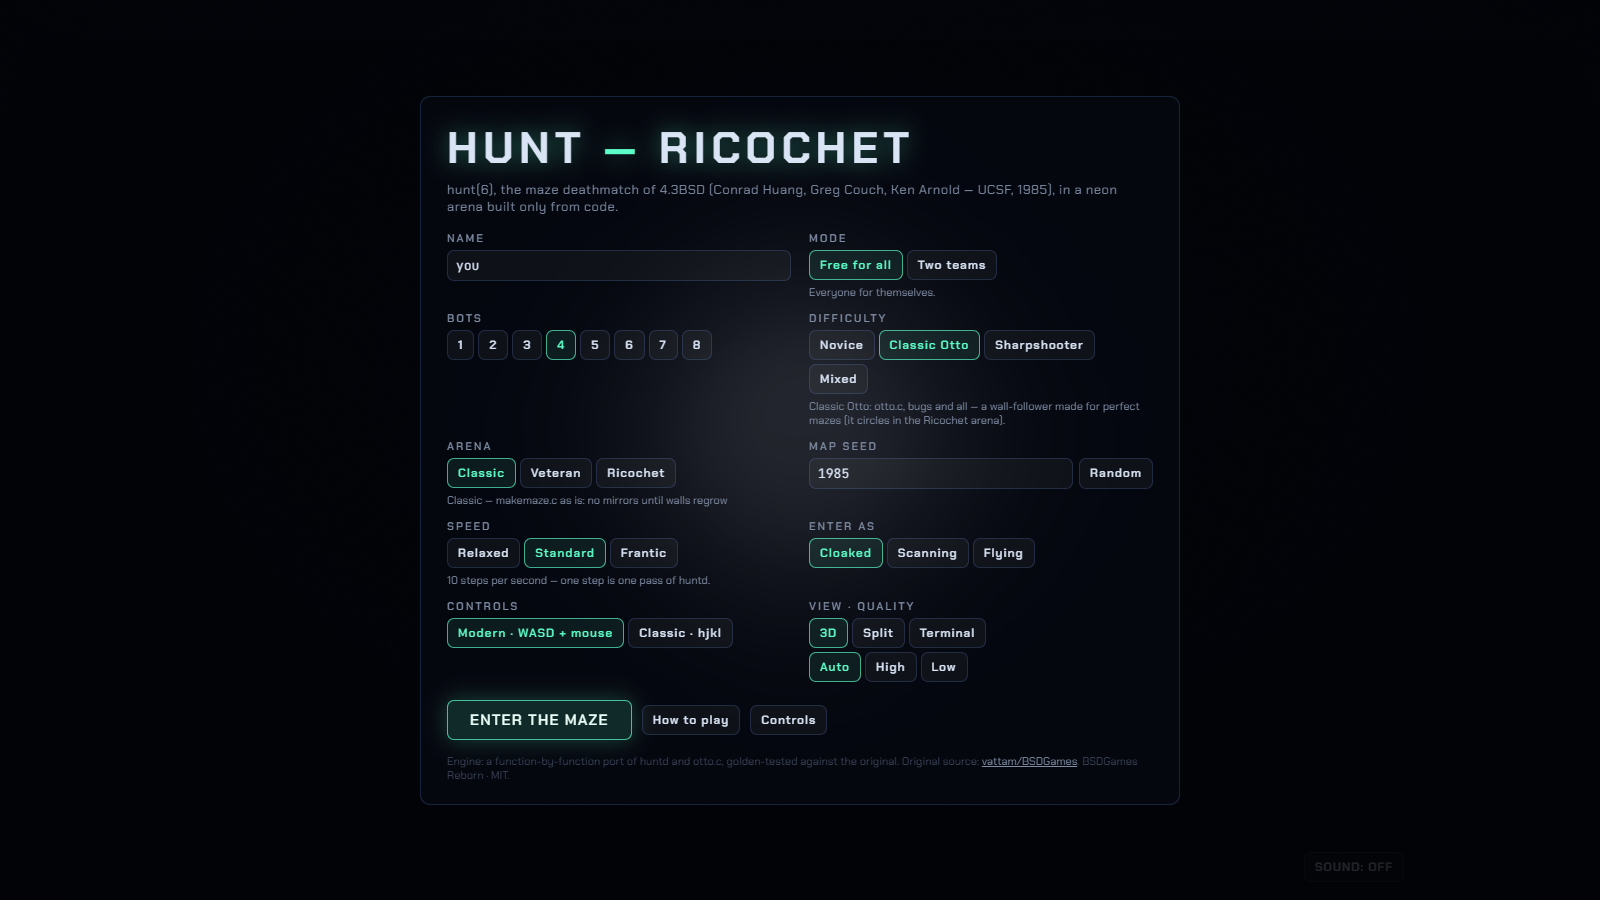
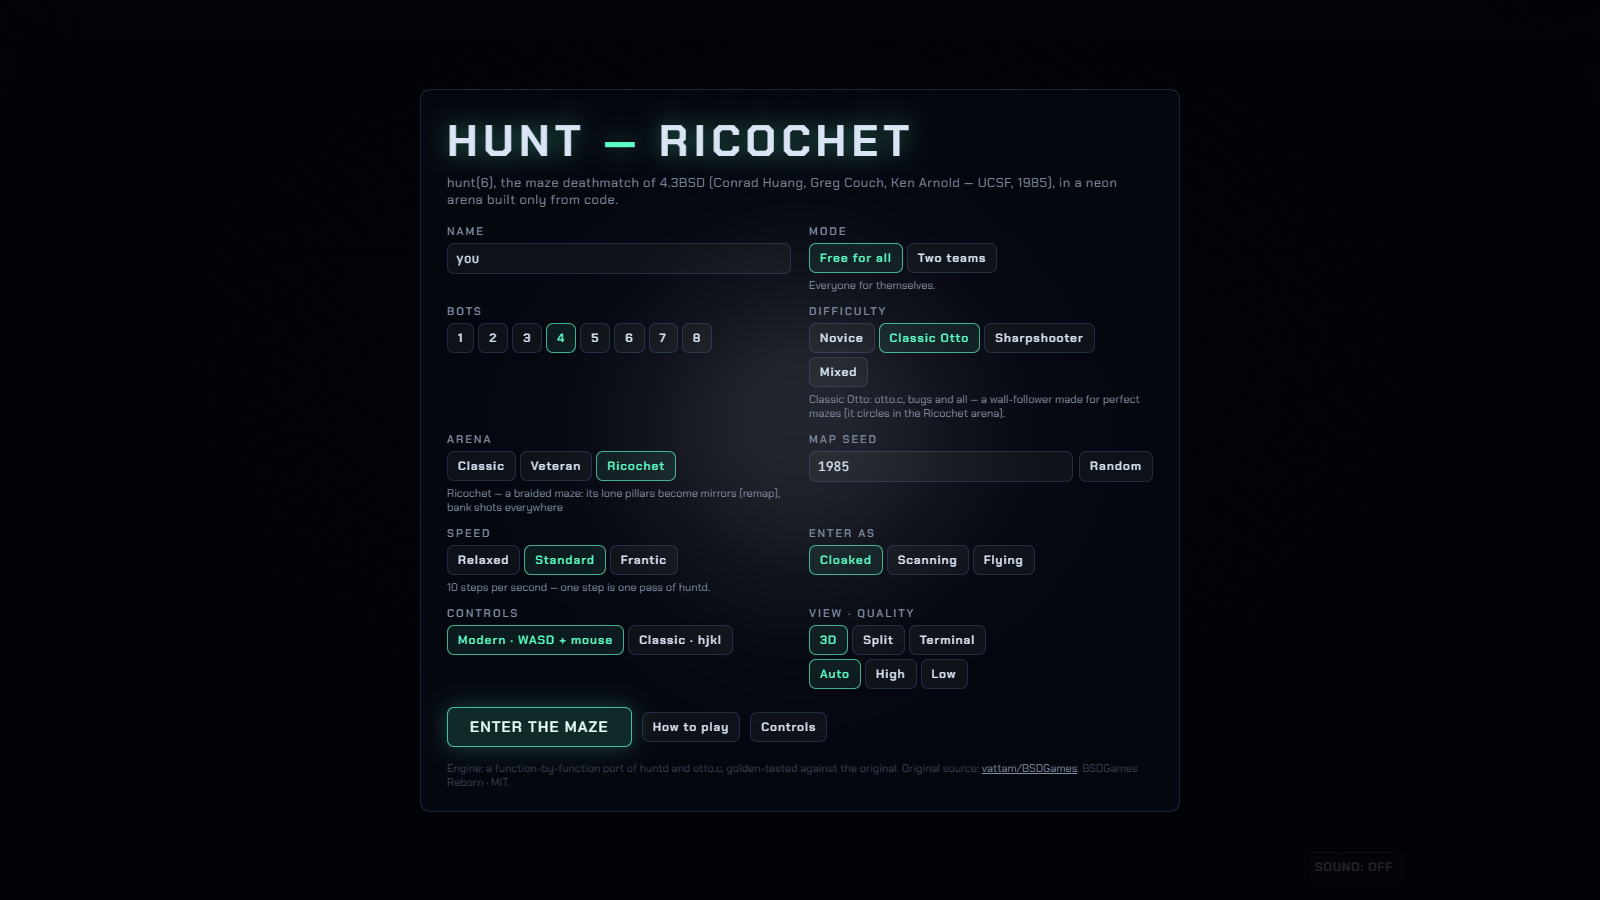
port(hunt): make Ricochet the default arena
Owner's decision after comparing the arenas: the flipping mirror is
hunt's signature and this port's identity, and the original arena starts
with no mirrors at all. Classic (makemaze.c exactly) stays one click away,
or ?arena=classic.

- src/main.js: DEFAULTS.arena = 'ricochet'; settings saved before this
  change drop their remembered arena once (settings v2), other choices
  are kept. The engine's own default stays Classic, so golden traces and
  the Override baseline are unaffected.
- ADR-006 amended (status, decision, consequences: Classic Otto, the
  default opponent, circles in Ricochet); README, diff-log, notes, ADR
  index and progress row updated; setup screenshot re-shot.
- 90/90 node tests, UI smoke 15/15.

diff --git a/bsdgames/hunt/ports/fancy-web/src/main.js b/bsdgames/hunt/ports/fancy-web/src/main.js
@@ -25,14 +25,20 @@ const W = K.WIDTH;
 
 // ------------------------------------------------------------- settings
 const DEFAULTS = {
-  name: 'you', mode: 'ffa', bots: '4', difficulty: 'otto', arena: 'classic', seed: 1985,
+  name: 'you', mode: 'ffa', bots: '4', difficulty: 'otto', arena: 'ricochet', seed: 1985,
   speed: 'standard', enter: 'c', scheme: 'modern', view: 'modern', quality: 'auto', camera: 'overview',
 };
 let settings = { ...DEFAULTS };
-try { Object.assign(settings, JSON.parse(localStorage.getItem('hunt.settings') || '{}')); } catch { /* defaults */ }
+// v2: Ricochet became the default arena; an arena remembered from before that is dropped once
+const SETTINGS_V = 2;
+try {
+  const saved = JSON.parse(localStorage.getItem('hunt.settings') || '{}');
+  if (saved.v !== SETTINGS_V) delete saved.arena;
+  Object.assign(settings, saved);
+} catch { /* defaults */ }
 for (const k of Object.keys(DEFAULTS)) if (params.has(k)) settings[k] = params.get(k);
 // quality=lite is a URL-only test switch (the menu offers auto/low/high), so it is never remembered
-const save = () => { try { localStorage.setItem('hunt.settings', JSON.stringify({ ...settings, quality: settings.quality === 'lite' ? 'auto' : settings.quality })); } catch { /* ignore */ } };
+const save = () => { try { localStorage.setItem('hunt.settings', JSON.stringify({ ...settings, v: SETTINGS_V, quality: settings.quality === 'lite' ? 'auto' : settings.quality })); } catch { /* ignore */ } };
 
 const NOTES = {
   mode: { ffa: 'Everyone for themselves.', teams: 'Two teams (hunt teams are digits: 1 and 2). Friendly fire hurts — and costs you a kill.' },

diff --git a/docs/progress.md b/docs/progress.md
@@ -169,7 +169,7 @@ for the naming rules and reserved slugs.
 | rain | fancy-web | 🟢 | Agun (Claude) | — | **Released 2026-09-24.** *Rain on Still Water* — the 1980 screensaver as a night pond, **zero raster assets** (port ADR-002, `npm run check:raster`; sound synthesised too). Byte-faithful engine: glibc `random()` reimplemented, the `rain.c` loop on a persistent 80×24 screen, reproducing the three screens captured from the real binary; `-d` parsed like `strtoul`; `-d 0` paced as a 9600-baud line drains. Each ASCII age (`.` `o` `O` ring ring blank) is an impulse into a GPU wave-equation simulation on a conformal log-polar grid (ADR-003/004): rings interfere; crowns, jets, falling streaks tied to engine drops, 0.35 s visual latency shared by both views. Procedural sky (clouds, moon, stars), wooded far bank, lantern bokeh with glitter-column reflections, Fresnel, mist; bloom + filmic grade. Web Audio hiss + per-drop bubble plinks, muted by default. Classic ASCII view and split view (lock-step, verified in the browser). Raw WebGL2, vanilla ES modules, zero build. Degradation ladder High/Low/Lite/Classic (ADR-005): 60 fps on GPU, ≈25 fps CPU-only (SwiftShader), classic view without WebGL. **23/23 node tests + 35/35 Playwright checks.** Docs: README (measured no-GPU numbers) + AGENTS + CLAUDE + diff-log + architecture + test-scenarios + notes + 5 ADRs; 9 screenshots. ✨ Complete pending: listening test of the sound, live URL. |
 | worms | fancy-web | 🟢 | Agun (Claude) | — | **Released 2026-09-24.** *Abyssal Worms*: `worms(6)` as a bioluminescent deep-sea screensaver, **zero raster and audio assets** (port ADR-002, enforced by a test). Faithful engine: the nine boundary tables, ring-buffer bodies, ref-counted cells and glibc `random()` (seed 1 = the unseeded original) reproduce screens captured from a binary built from `worms.c` **cell for cell** (7 configs × 4 captures); GNU getopt + `strtoul`/`atoi` with byte-identical errors (31 CLI cases). Smooth glide between grid steps that equals the grid state at step boundaries (ADR-003); eight species for `O * # $ % 0 @ ~` (translucent segmented bodies, Fresnel rim, gut pulse, photophores); worms light the sea floor (light map) and each other, flaring where ref ≥ 2; luminous fading `-t` trails; breathing plankton "WORM" `-f` field eaten letter by letter; marine snow, caustics, burrows; bloom + ACES. Settings with live `-n -l -d -f -t` and a command line, Classic and Split (same engine state), procedural drone/bubbles/crossing chimes (muted by default), idle-fading UI, fullscreen, reduced motion, Low/High with auto-downgrade. Raw WebGL2 + Canvas 2D + Web Audio, vanilla ES modules, zero build; no-GPU → auto Low, no WebGL → classic view. 60 fps at `-n 20 -l 64 -t -f` (RTX 4060). **33/33 tests.** 9 screenshots. Canonical `spec.md` replay semantics corrected (unseeded glibc = deterministic); port-style catalog added to `port-ideas.md`. ✨ Complete pending: listening test of the sound, live URL. |
 | trek | procedural-web | 🟢 | Agun (Claude) | — | **Released 2026-09-24 (comparison port).** *Deep Space — Procedural*: head-to-head with `trek/fancy-web` — same engine (galaxy/parser/hints byte-identical, SHA-pinned; engine copied and extended only behind default-off Captain's Override flags, proved identical to a frozen fancy-web engine over 120 seeded games), but **zero raster and audio assets** (port ADR-002, enforced by a test). Vendored Three.js r186 + hand-written GLSL, vanilla ES modules, zero build (port ADR-001): per-quadrant volumetric nebula bake (64 stable skies, auto-exposed, procedural planets in half of them), original lofted ships (Vanguard, Talon, Hammer, Trident, Stingray) with runtime-canvas plating, windows and engines, a 5.6-cell ring starbase, shaded stars with corona/limb darkening/lens flare, phasers with heat shimmer, hex-ripple shields, multi-stage explosions, warp tunnel, holographic galaxy chart with click-to-warp; combat choreography follows the original C after two owner review rounds (phasers from six hull banks at once, one per Klingon, as `phaser.c`; torpedo/impulse/warp come about first); procedural Web Audio (muted by default). Dynamic cheat parity + Captain's Override (`override` / `!`: reveal map, infinite energy/torpedoes, invulnerable shields, freeze clock, one-shot kills, instant warp, resupply; OVERRIDE ACTIVE badge, CHEATED log + end screen). High/Low/Lite + 2D fallback (60 fps RTX 4060; CPU-only Lite ≈ 18 fps in combat; no-WebGL 2D). **77/77 node tests + 23/23 Playwright checks** (GPU, CPU, no-WebGL). `docs/comparison.md` with 7 painted/procedural pairs; 11 screenshots. Canonical scenarios: same coverage as fancy-web (11 pass, 5 differ, 9 need commands the shared engine lacks). ✨ Complete pending: live URL, galactic-core sky type. |
-| hunt | fancy-web | 🟢 | Agun (Claude) | — | **Released 2026-09-24.** *Hunt — Ricochet*, the first hunt port, **zero raster and audio assets** (port ADR-002, enforced by a test). `huntd` (execute/shots/expl/draw/driver/answer/makemaze) and `otto.c` ported function by function into a pure, seeded, JSON-serialisable engine that runs unchanged in Node, **matched field by field against the real daemon code** on 7 golden traces (~6,000 steps: a single-file C harness compiles the upstream `.c` files with a virtual terminal per player, since no hunt binary ships in Debian). The C won every disagreement with the canonical docs: 42 discrepancies recorded with `file:line` and proposed fixes (51×23 maze, real weapon table, mirrors that flip after every deflection, one-shot walls that regrow and throw players, ownerless mines, no ammo regen, kills-per-entry score, original authors per the man pages; canonical docs not edited). A fresh hunt arena has no mirrors at all (a perfect maze never isolates a pillar), so a braided **Ricochet** arena lets `remap()` make ~57 free-standing mirrors (chains up to 15 bounces; port ADR-006); Classic stays default. Single player vs 1–8 bots, FFA or two teams: Classic Otto (faithful, bugs included), Novice and Sharpshooter (labelled extensions, fair: own screen only; bank shots through remembered mirrors). 10 Hz fixed tick = one `driver.c` pass (port ADR-005). Vendored Three.js r186 + custom GLSL: dark stone labyrinth lit only by hunt's own `look()` rule as a flashlight beam, blueprint memory ghosts, glass mirrors that flash and swivel, fireball/smoke/debris blasts timed along each shot's path, translucent slime, cloak heat-haze, respawn beams, bloom/CA/ACES. Coach ricochet preview (`` ` ``) and Override panel (`\`: god, infinite ammo, reveal mines, see all, freeze bots, slow motion, instant respawn; OVERRIDE ACTIVE + CHEATED score; all-off equals the seeded baseline). Classic keys + remappable Modern twin-stick scheme, 3D/split/terminal views, gunshot radar, kill feed, procedural positional sound (muted by default), reduced motion. High/Low/Lite/terminal ladder: 60 fps with 8 bots (RTX 4060), CPU-only Lite ≈13 fps under stress, no-WebGL terminal play. **90/90 node tests + 15/15 Playwright checks (GPU and CPU, 14/14 no-WebGL).** 7 port ADRs; 13 screenshots. ✨ Complete pending: owner's choice of default arena, listening pass on the audio, networked multiplayer (server design in port architecture.md), canonical doc fixes, live URL. |
+| hunt | fancy-web | 🟢 | Agun (Claude) | — | **Released 2026-09-24.** *Hunt — Ricochet*, the first hunt port, **zero raster and audio assets** (port ADR-002, enforced by a test). `huntd` (execute/shots/expl/draw/driver/answer/makemaze) and `otto.c` ported function by function into a pure, seeded, JSON-serialisable engine that runs unchanged in Node, **matched field by field against the real daemon code** on 7 golden traces (~6,000 steps: a single-file C harness compiles the upstream `.c` files with a virtual terminal per player, since no hunt binary ships in Debian). The C won every disagreement with the canonical docs: 42 discrepancies recorded with `file:line` and proposed fixes (51×23 maze, real weapon table, mirrors that flip after every deflection, one-shot walls that regrow and throw players, ownerless mines, no ammo regen, kills-per-entry score, original authors per the man pages; canonical docs not edited). A fresh hunt arena has no mirrors at all (a perfect maze never isolates a pillar), so a braided **Ricochet** arena lets `remap()` make ~57 free-standing mirrors (chains up to 15 bounces; port ADR-006); Ricochet is the default (owner's call), Classic one click away. Single player vs 1–8 bots, FFA or two teams: Classic Otto (faithful, bugs included), Novice and Sharpshooter (labelled extensions, fair: own screen only; bank shots through remembered mirrors). 10 Hz fixed tick = one `driver.c` pass (port ADR-005). Vendored Three.js r186 + custom GLSL: dark stone labyrinth lit only by hunt's own `look()` rule as a flashlight beam, blueprint memory ghosts, glass mirrors that flash and swivel, fireball/smoke/debris blasts timed along each shot's path, translucent slime, cloak heat-haze, respawn beams, bloom/CA/ACES. Coach ricochet preview (`` ` ``) and Override panel (`\`: god, infinite ammo, reveal mines, see all, freeze bots, slow motion, instant respawn; OVERRIDE ACTIVE + CHEATED score; all-off equals the seeded baseline). Classic keys + remappable Modern twin-stick scheme, 3D/split/terminal views, gunshot radar, kill feed, procedural positional sound (muted by default), reduced motion. High/Low/Lite/terminal ladder: 60 fps with 8 bots (RTX 4060), CPU-only Lite ≈13 fps under stress, no-WebGL terminal play. **90/90 node tests + 15/15 Playwright checks (GPU and CPU, 14/14 no-WebGL).** 7 port ADRs; 13 screenshots. ✨ Complete pending: listening pass on the audio, networked multiplayer (server design in port architecture.md), canonical doc fixes, live URL. |
 
 *(Other games' ports will appear here as they are claimed. No
 port row = no port started yet; canonical docs at

diff --git a/bsdgames/hunt/ports/fancy-web/docs/decisions/006-arena-mirror-seeding.md b/bsdgames/hunt/ports/fancy-web/docs/decisions/006-arena-mirror-seeding.md
@@ -1,6 +1,6 @@
 # ADR 006 — Arena Types: Classic (No Mirrors Yet), Veteran, Ricochet (Braided)
 
-- **Status:** Accepted (default = Classic; owner to confirm the showcase default)
+- **Status:** Accepted — default = **Ricochet** (owner's decision, 2026-09-24; first proposed with Classic as the default)
 - **Date:** 2026-09-24
 - **Deciders:** Claude Opus, for review by Agun Wijaya (owner)
 - **Scope:** `bsdgames/hunt/ports/fancy-web/` only
@@ -67,14 +67,18 @@ said so in the setup screen (`notes.md` §5).
 
 ## Decision
 
-Three arena types, **Classic the default** (the owner's standing rule is
-to follow the original when in doubt):
+Three arena types, **Ricochet the default.** The first version of this ADR
+made Classic the default (the owner's standing rule is to follow the
+original when in doubt); after comparing the two, the owner chose Ricochet,
+because the flipping mirror is hunt's signature and this port's identity,
+and the original arena would hide it for most of a match. Classic stays one
+click away (setup, or `?arena=classic`):
 
 | Arena | Construction | Meaning |
 |---|---|---|
-| **Classic** (default) | `makemaze.c` untouched | the original: mirrors and doors only appear as walls regrow |
+| **Classic** | `makemaze.c` untouched | the original: mirrors and doors only appear as walls regrow |
 | **Veteran** | Option C at 1% (door, then mirror, per wall) | the original odds, as if every wall had regrown once |
-| **Ricochet** | Option D, braid 45% | the showcase: free-standing mirrors, bank shots everywhere |
+| **Ricochet** (default) | Option D, braid 45% | the showcase: free-standing mirrors, bank shots everywhere |
 
 All three run on the daemon's own generator, so seeds stay reproducible.
 The setup screen explains each in one line; screenshots of ricochets say
@@ -84,8 +88,9 @@ which arena they use.
 
 ### Positive
 
-- The faithful game is the default and golden-tested; the showcase is one
-  click away and uses only the original's own drawing rules.
+- The first match shows what the port is about; the showcase uses only the
+  original's own drawing rules, and the faithful, golden-tested arena is one
+  click away.
 - The Sharpshooter's bank-shot planning and the Coach have real work to do
   in the Ricochet arena.
 
@@ -93,10 +98,15 @@ which arena they use.
 
 - Veteran and Ricochet have more mirrors than any original arena would —
   labelled as such.
-- In Ricochet, Classic Otto is weak (he circles); the extension bots use a
-  map-based explorer instead (`src/bots/explore.js`).
+- In Ricochet, Classic Otto is weak (he circles) — and Classic Otto is the
+  default opponent, so a default match has Ottos that orbit a block until
+  someone crosses their path. The extension bots use a map-based explorer
+  instead (`src/bots/explore.js`).
+- The engine's own default (`createMatch`, `newGame`) stays Classic, so the
+  golden traces and the Override baseline are unaffected; only the page's
+  default changed (a remembered arena from before is dropped once).
 
 ### Follow-on Work
 
-- The owner may prefer Ricochet as the default for the showcase; it is one
-  line (`DEFAULTS.arena` in `src/main.js`).
+- Done (2026-09-24): Ricochet is the page default (`DEFAULTS.arena` in
+  `src/main.js`).

diff --git a/bsdgames/hunt/ports/fancy-web/docs/notes.md b/bsdgames/hunt/ports/fancy-web/docs/notes.md
@@ -298,7 +298,7 @@ of it, committing to a goal until they have seen it.
 | Deviation | Why | ADR |
 |---|---|---|
 | A fixed step clock (default 10 Hz) instead of "time moves when someone types" | real-time play against bots; a server tick | [005](./decisions/005-time-and-tick.md) |
-| Optional arenas: Veteran (regeneration rule at 1%), Ricochet (braided maze, mirrors by `remap()`); Classic is the default | the original arena starts with no mirrors, and regrown mirrors sit inside wall runs | [006](./decisions/006-arena-mirror-seeding.md) |
+| Extra arenas: Veteran (regeneration rule at 1%), Ricochet (braided maze, mirrors by `remap()`); Ricochet is the default, Classic one click away | the original arena starts with no mirrors, and regrown mirrors sit inside wall runs | [006](./decisions/006-arena-mirror-seeding.md) |
 | Novice and Sharpshooter bots, with a map-based explorer | labelled extensions next to the faithful Otto | [003](./decisions/003-v1-scope.md) |
 | Respawn pause (default 2 s) for everyone | readable deaths; the original client re-enters at once | [005](./decisions/005-time-and-tick.md) |
 | Coach and Override cheat layers | trek-port parity; Override marks scores | [README](../README.md#cheat-mode) |

diff --git a/bsdgames/hunt/ports/fancy-web/docs/diff-log.md b/bsdgames/hunt/ports/fancy-web/docs/diff-log.md
@@ -101,7 +101,8 @@ problem. Seeding mirrors with the regeneration rule was tried and measured:
 nearly all such mirrors sit inside wall runs and just turn shots into the
 next block (0.24% of shots bounce twice). Braiding the maze and letting
 `remap()` do its job produced free-standing mirrors and chains of up to 15
-bounces. Classic stays the default; Ricochet is one click away (ADR 006).
+bounces. After comparing the two, the owner made Ricochet the default;
+Classic, the original, is one click away (ADR 006).
 
 **Otto in a braided maze.** In the Ricochet arena, Otto circled a single
 block forever: `wander()` is a right-hand wall-follower whose memory is
@@ -152,8 +153,6 @@ screen.
 ## 6. Known limitations and next steps
 
 - Network play and a spectator role (architecture §7).
-- The owner may want **Ricochet** as the default arena for the showcase
-  (one line); Classic is the default because it is the original.
 - The sound has not had a listening pass by the owner yet.
 - The canonical docs still need the fixes in `notes.md` §3 (and new
   screenshots of the real program — the game-level `media/*.txt` are not

diff --git a/bsdgames/hunt/ports/fancy-web/docs/decisions/README.md b/bsdgames/hunt/ports/fancy-web/docs/decisions/README.md
@@ -12,7 +12,7 @@ defaults apply unless an ADR here overrides them.
 | [003](./003-v1-scope.md) | V1 scope: single player vs bots, server-authoritative-ready engine | Accepted | 2026-09-24 |
 | [004](./004-input-scheme.md) | Input: original keys + a remappable twin-stick scheme | Accepted | 2026-09-24 |
 | [005](./005-time-and-tick.md) | Time: a fixed 10 Hz step instead of "time moves when someone types" | Accepted | 2026-09-24 |
-| [006](./006-arena-mirror-seeding.md) | Arena types: Classic (no mirrors yet), Veteran, Ricochet | Accepted (owner to confirm default) | 2026-09-24 |
+| [006](./006-arena-mirror-seeding.md) | Arena types: Classic (no mirrors yet), Veteran, Ricochet | Accepted (default: Ricochet) | 2026-09-24 |
 | [007](./007-source-over-spec.md) | Where `spec.md` and `huntd` disagree, this port follows `huntd` | Accepted | 2026-09-24 |
 
 The Coach and Override cheat layers are additive, default-off features

diff --git a/bsdgames/hunt/ports/fancy-web/README.md b/bsdgames/hunt/ports/fancy-web/README.md
@@ -129,9 +129,9 @@ blown walls grow back. So:
 
 | Arena | What it is |
 |---|---|
-| **Classic** (default) | `makemaze.c` exactly. Mirrors and doors arrive as walls regrow. |
+| **Classic** | `makemaze.c` exactly. Mirrors and doors arrive as walls regrow. |
 | **Veteran** | as if every wall had already regrown once (the original 1% odds) |
-| **Ricochet** | a braided maze: loops are opened, and `remap()`'s own rule turns every pillar left standing alone into a mirror — ≈57 free-standing mirrors, bank shots of up to 15 bounces |
+| **Ricochet** (default) | a braided maze: loops are opened, and `remap()`'s own rule turns every pillar left standing alone into a mirror — ≈57 free-standing mirrors, bank shots of up to 15 bounces |
 
 **Bots** — each one types keys into its own typeahead and knows only what
 its own screen shows:
